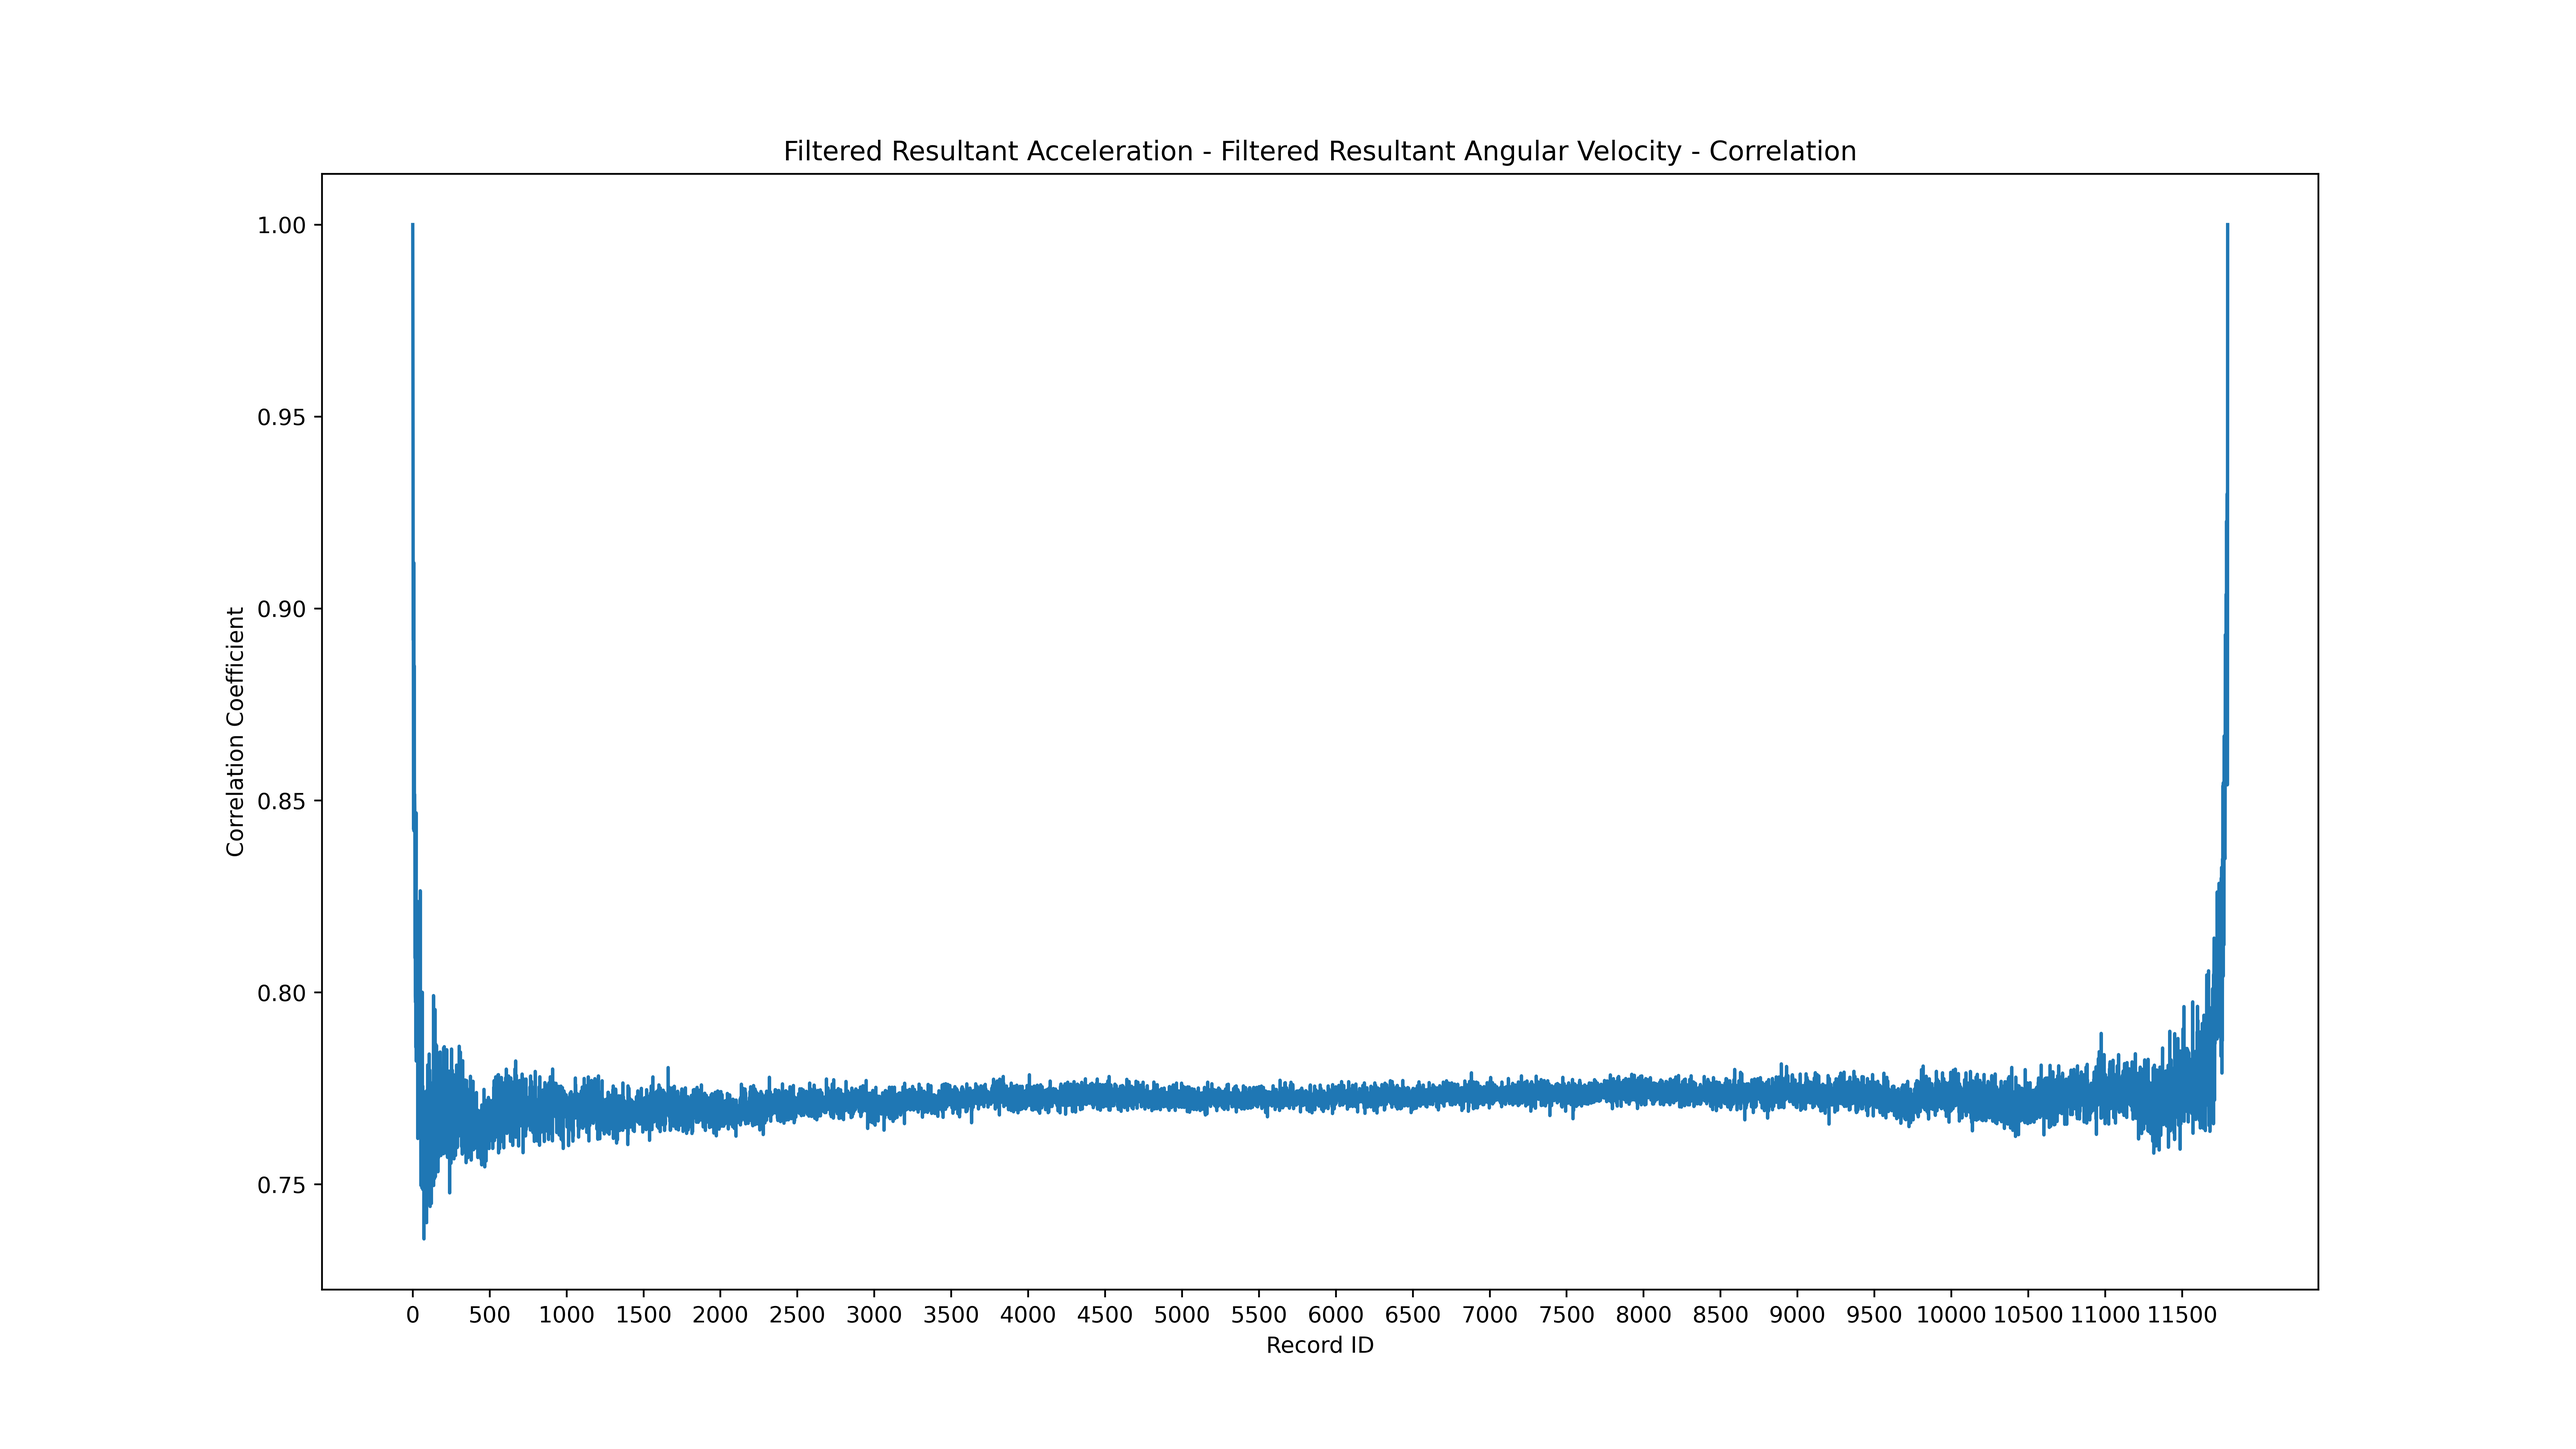
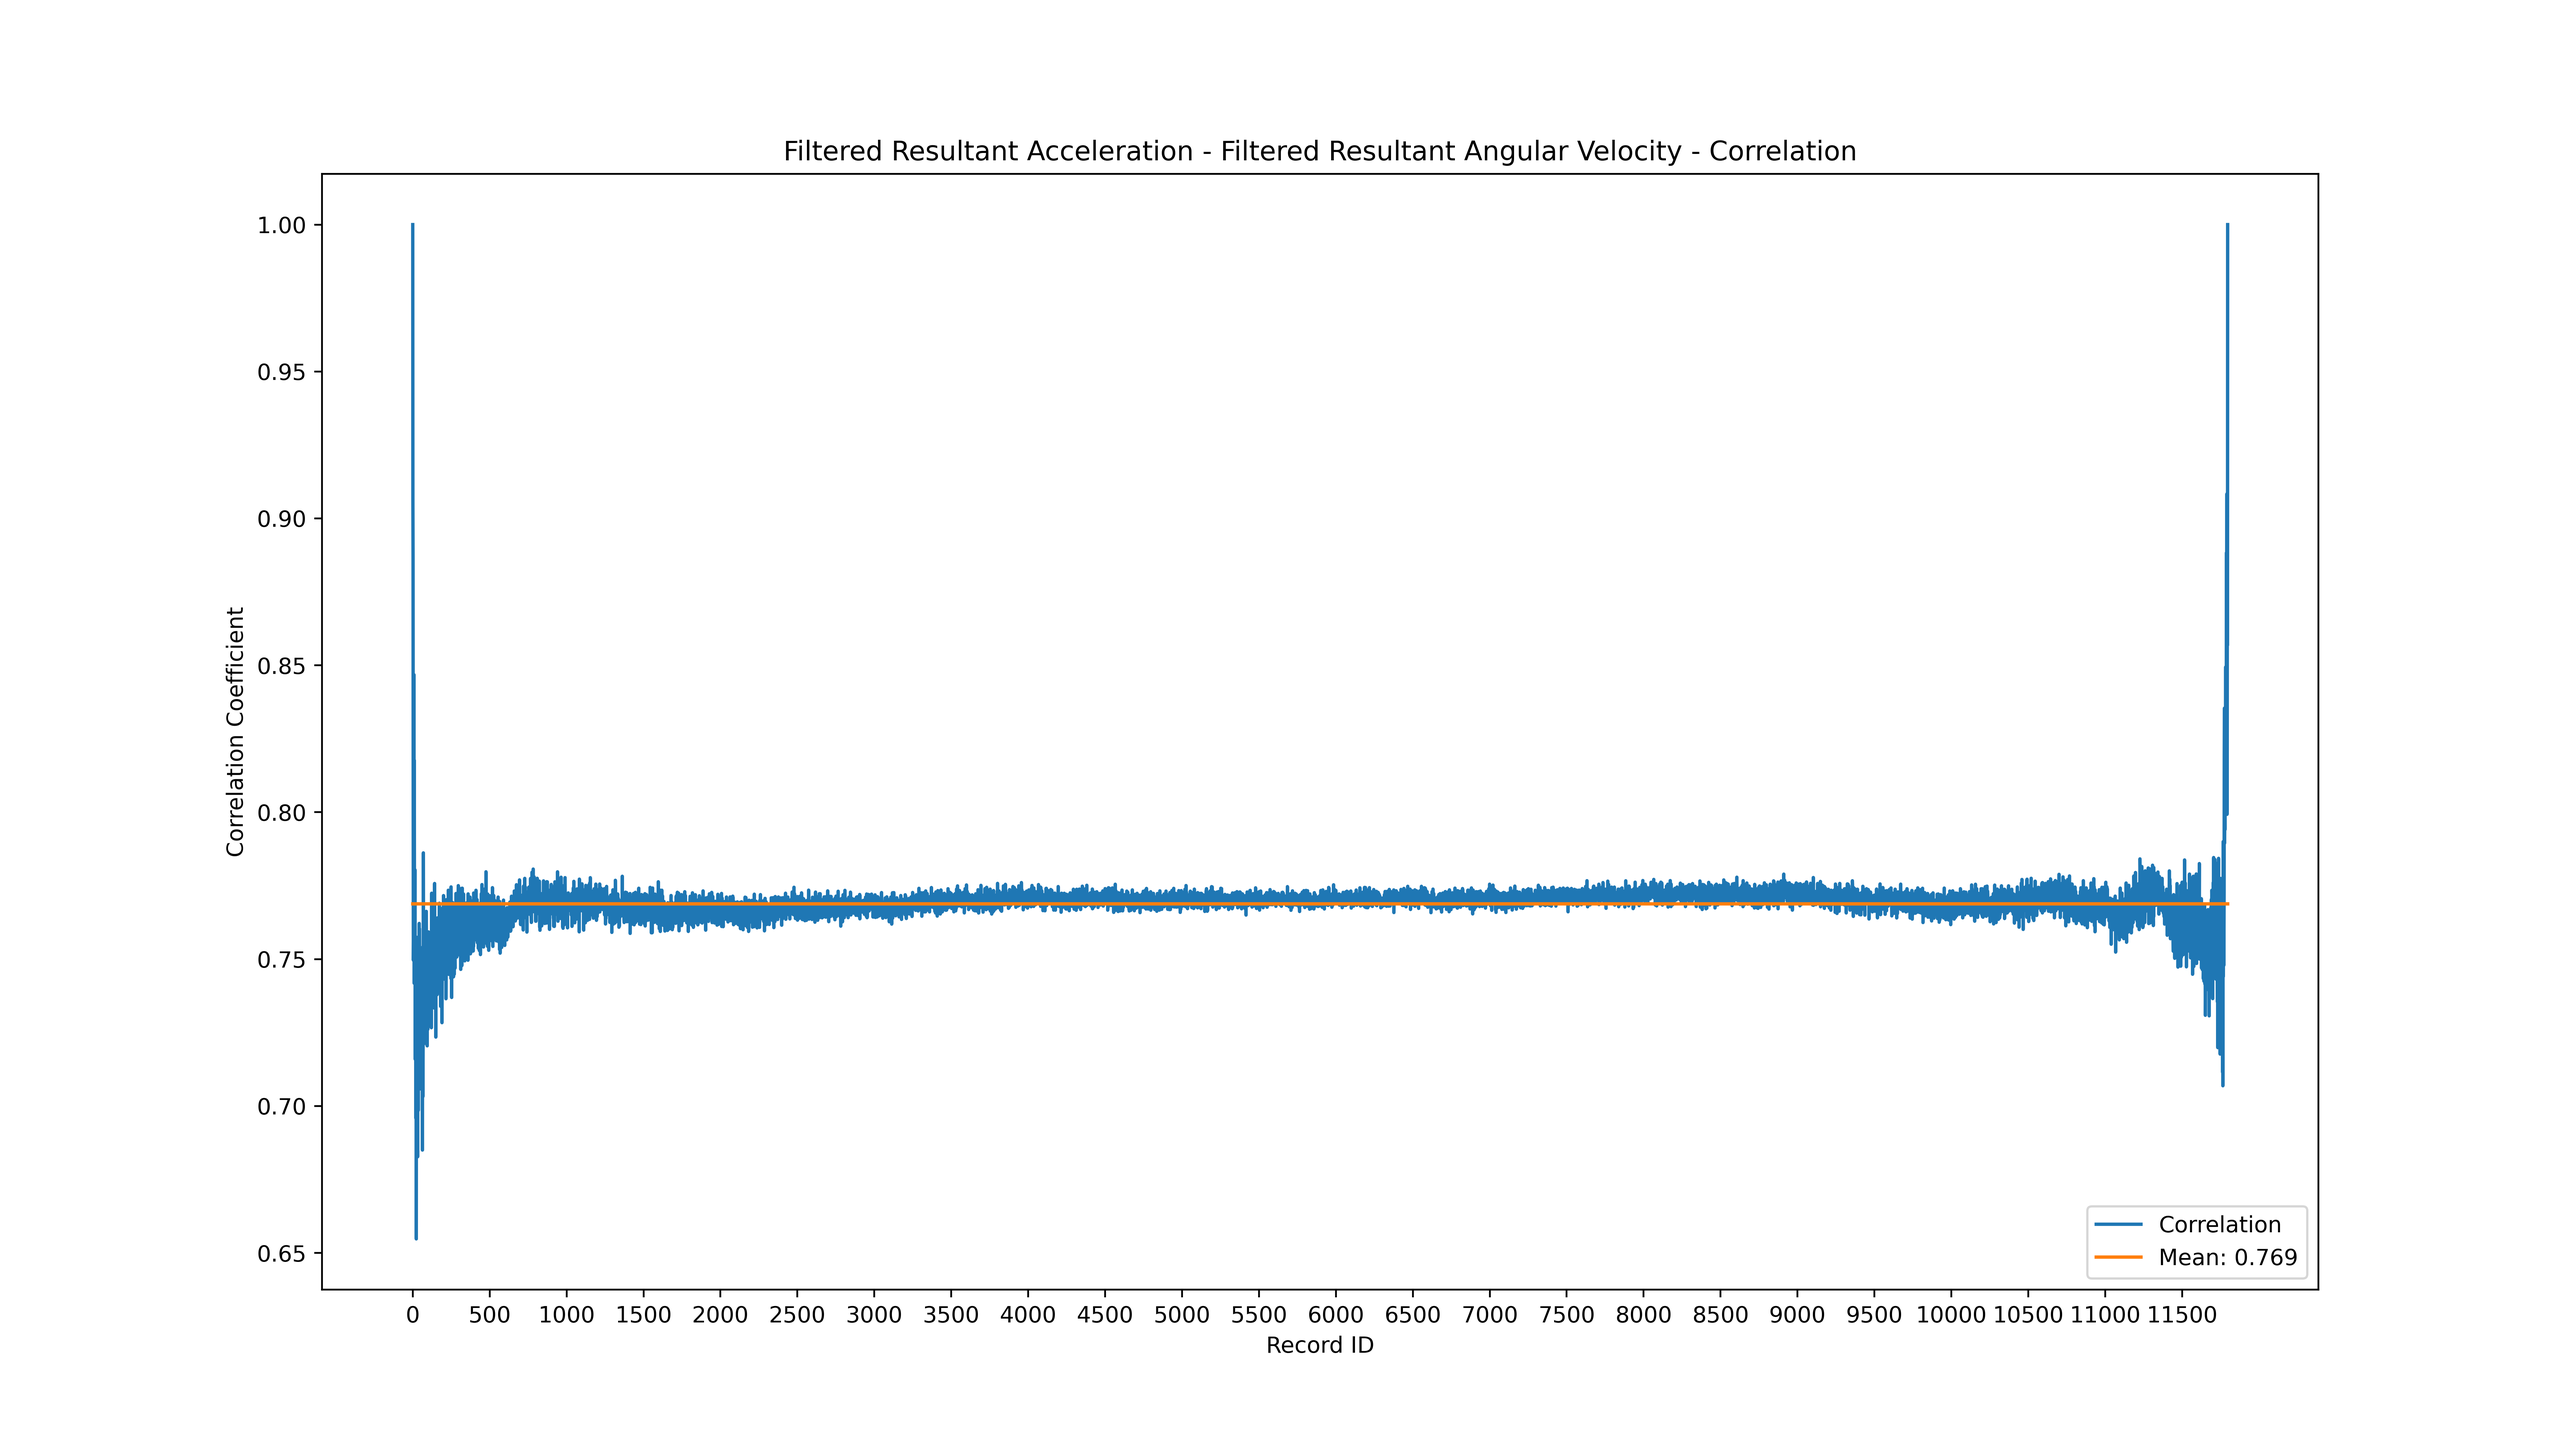
Updated Experiment 2.0

Changed region(s): [[0.1562, 0.5911, 0.875, 0.84], [0.8125, 0.84, 0.9062, 0.8711], [0.0938, 0.6533, 0.125, 0.6844]]

diff --git a/experiment-2.py b/experiment-2.py
@@ -258,7 +258,6 @@ avg_humidity = np.array(wwo.get_avg_humidity_single(weather_data)).flatten()
 
 # _______________________ 4: Plotting the data _______________________
 
-
 # 4.1 -----------------------NDVI-----------------------
 
 # 4.1.1 - NDVI - Record ID
@@ -721,8 +720,13 @@ plt.title(
 )
 plt.xlabel("Record ID")
 plt.ylabel("Correlation Coefficient")
-plt.plot(record_id, magn_acc_filtered_cor)
+plt.plot(record_id, magn_acc_filtered_cor, label="Correlation")
+plt.plot(
+    record_id,
+    [imu.get_mean(magn_acc_filtered_cor)] * len(record_id),
+    label=f"Mean: {round(imu.get_mean(magn_acc_filtered_cor), 3)}")
 plt.xticks(np.arange(min(record_id), max(record_id) + 1, 500))
+plt.legend()
 fig = plt.gcf()
 fig.set_size_inches(16, 9)
 plt.savefig(
@@ -736,8 +740,13 @@ plt.title(
 )
 plt.xlabel("Record ID")
 plt.ylabel("Correlation Coefficient")
-plt.plot(record_id, magn_gyro_filtered_cor)
+plt.plot(record_id, magn_gyro_filtered_cor, label="Correlation")
+plt.plot(
+    record_id,
+    [imu.get_mean(magn_gyro_filtered_cor)] * len(record_id),
+    label=f"Mean: {round(imu.get_mean(magn_gyro_filtered_cor), 3)}")
 plt.xticks(np.arange(min(record_id), max(record_id) + 1, 500))
+plt.legend()
 fig = plt.gcf()
 fig.set_size_inches(16, 9)
 plt.savefig(
@@ -751,8 +760,13 @@ plt.title(
 )
 plt.xlabel("Record ID")
 plt.ylabel("Correlation Coefficient")
-plt.plot(record_id, acc_gyro_filtered_cor)
+plt.plot(record_id, acc_gyro_filtered_cor, label="Correlation")
+plt.plot(
+    record_id,
+    [imu.get_mean(acc_gyro_filtered_cor)] * len(record_id),
+    label=f"Mean: {round(imu.get_mean(acc_gyro_filtered_cor), 3)}")
 plt.xticks(np.arange(min(record_id), max(record_id) + 1, 500))
+plt.legend()
 fig = plt.gcf()
 fig.set_size_inches(16, 9)
 plt.savefig(
